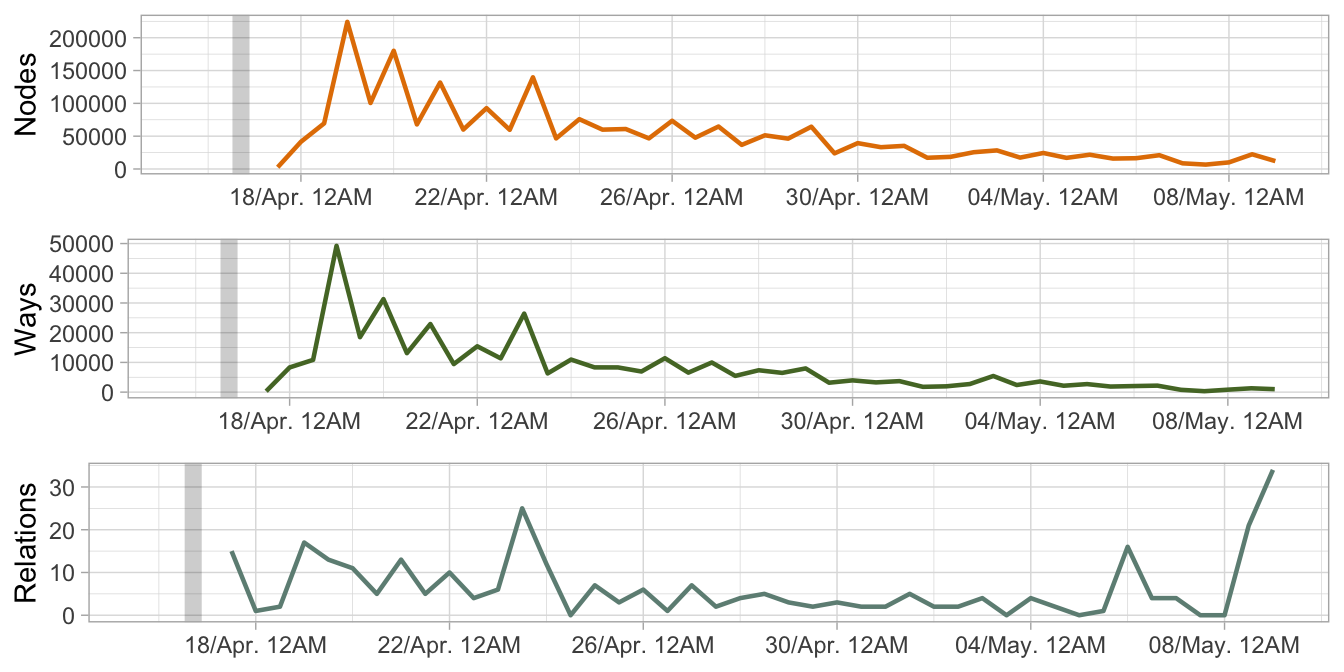
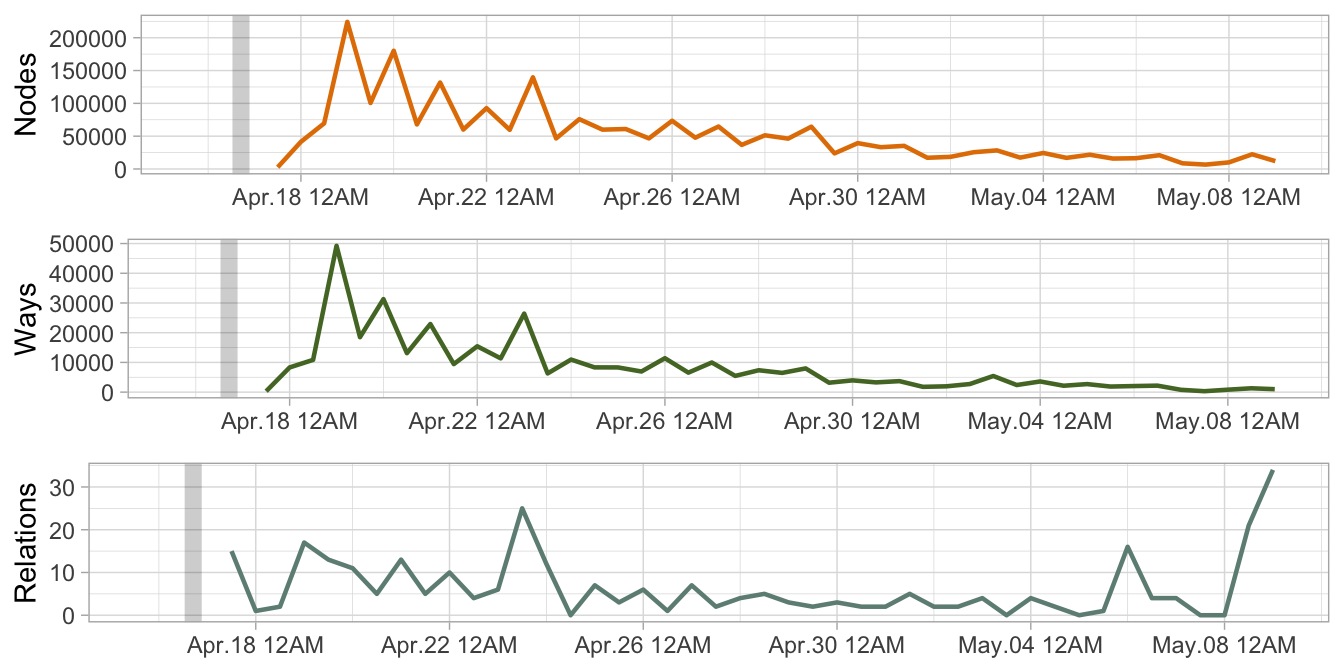
Fixes for new Pandoc

diff --git a/docs/post/2021/04/16-mapping-ecuador-contribuciones/index.html b/docs/post/2021/04/16-mapping-ecuador-contribuciones/index.html
@@ -235,22 +235,22 @@
           <div class="post-content markdown" itemprop="articleBody">
             <div class="main-content-wrap">
               
-<script src="https://ruevko.github.io/hexagonal/rmarkdown-libs/accessible-code-block/empty-anchor.js"></script>
+<script src="https://ruevko.github.io/hexagonal/rmarkdown-libs/header-attrs/header-attrs.js"></script>
 <script src="https://ruevko.github.io/hexagonal/rmarkdown-libs/kePrint/kePrint.js"></script>
 <link href="https://ruevko.github.io/hexagonal/rmarkdown-libs/lightable/lightable.css" rel="stylesheet" />
 <style type="text/css">
-code.sourceCode > span { display: inline-block; line-height: 1.25; }
+pre > code.sourceCode { white-space: pre; position: relative; }
+pre > code.sourceCode > span { display: inline-block; line-height: 1.25; }
+pre > code.sourceCode > span:empty { height: 1.2em; }
 code.sourceCode > span { color: inherit; text-decoration: inherit; }
-code.sourceCode > span:empty { height: 1.2em; }
-code.sourceCode { white-space: pre; position: relative; }
 div.sourceCode { margin: 1em 0; }
 pre.sourceCode { margin: 0; }
 @media screen {
 div.sourceCode { overflow: auto; }
 }
 @media print {
-code.sourceCode { white-space: pre-wrap; }
-code.sourceCode > span { text-indent: -5em; padding-left: 5em; }
+pre > code.sourceCode { white-space: pre-wrap; }
+pre > code.sourceCode > span { text-indent: -5em; padding-left: 5em; }
 }
 pre.numberSource code
   { counter-reset: source-line 0; }
@@ -271,9 +271,9 @@ pre.numberSource { margin-left: 3em; border-left: 1px solid #a0a0a0;  padding-le
 div.sourceCode
   { color: #1f1c1b; background-color: #ffffff; }
 @media screen {
-code.sourceCode > span > a:first-child::before { text-decoration: underline; }
+pre > code.sourceCode > span > a:first-child::before { text-decoration: underline; }
 }
-code span. { color: #1f1c1b; } /* Normal */
+code span { color: #1f1c1b; } /* Normal */
 code span.al { color: #bf0303; background-color: #f7e6e6; font-weight: bold; } /* Alert */
 code span.an { color: #ca60ca; } /* Annotation */
 code span.at { color: #0057ae; } /* Attribute */
@@ -308,11 +308,13 @@ code span.wa { color: #bf0303; } /* Warning */
 
 <div id="TOC"><span class="post-meta">Contenido</span>
 <ul>
-<li><a href="#datos-osmstats">Datos OSMstats</a><ul>
+<li><a href="#datos-osmstats">Datos OSMstats</a>
+<ul>
 <li><a href="#modelos-lineales-para-la-tasa-de-contribución">Modelos lineales para la tasa de contribución</a></li>
 <li><a href="#contribuciones-a-lo-largo-del-tiempo">Contribuciones a lo largo del tiempo</a></li>
 </ul></li>
-<li><a href="#datos-overpass">Datos Overpass</a><ul>
+<li><a href="#datos-overpass">Datos Overpass</a>
+<ul>
 <li><a href="#contribuciones-a-lo-largo-del-tiempo-1">Contribuciones a lo largo del tiempo</a></li>
 <li><a href="#contribuciones-por-usuario">Contribuciones por usuario</a></li>
 <li><a href="#contribuciones-en-el-espacio">Contribuciones en el espacio</a></li>
@@ -381,19 +383,19 @@ la historia de OpenStreetMap se remonta a 2004. Por ende, no todas las contribuc
 pueden ser cuantificadas con esta fuente de datos —en Ecuador también había datos antes
 de 2011— aunque más del 75 % de las contribuciones sí están disponibles. Ahora el primer
 paso es leer el <em>dataset</em>; utilizaremos <code>library(tidyverse)</code> a lo largo del análisis.</p>
-<div class="sourceCode" id="cb1"><pre class="sourceCode r"><code class="sourceCode r"><span id="cb1-1"><a href="#cb1-1"></a>Ecuador =<span class="st"> </span><span class="kw">read_csv</span>(<span class="st">&quot;ecuador_osmstats_2021_week_14.csv&quot;</span>) <span class="op">%&gt;%</span></span>
-<span id="cb1-2"><a href="#cb1-2"></a><span class="st">   </span><span class="kw">mutate</span>(<span class="dt">Created_elements_cum =</span> <span class="kw">cumsum</span>(Created_elements_sum),</span>
-<span id="cb1-3"><a href="#cb1-3"></a>          <span class="dt">Week_after =</span> Week <span class="op">&gt;</span><span class="st"> </span><span class="kw">as.Date</span>(<span class="st">&quot;2016-04-16&quot;</span>)) <span class="op">%&gt;%</span></span>
-<span id="cb1-4"><a href="#cb1-4"></a><span class="st">   </span><span class="kw">relocate</span>(Week, Week_after)</span></code></pre></div>
+<div class="sourceCode" id="cb1"><pre class="sourceCode r"><code class="sourceCode r"><span id="cb1-1"><a href="#cb1-1" aria-hidden="true" tabindex="-1"></a>Ecuador <span class="ot">=</span> <span class="fu">read_csv</span>(<span class="st">&quot;ecuador_osmstats_2021_week_14.csv&quot;</span>) <span class="sc">%&gt;%</span></span>
+<span id="cb1-2"><a href="#cb1-2" aria-hidden="true" tabindex="-1"></a>   <span class="fu">mutate</span>(<span class="at">Created_elements_cum =</span> <span class="fu">cumsum</span>(Created_elements_sum),</span>
+<span id="cb1-3"><a href="#cb1-3" aria-hidden="true" tabindex="-1"></a>          <span class="at">Week_after =</span> Week <span class="sc">&gt;</span> <span class="fu">as.Date</span>(<span class="st">&quot;2016-04-16&quot;</span>)) <span class="sc">%&gt;%</span></span>
+<span id="cb1-4"><a href="#cb1-4" aria-hidden="true" tabindex="-1"></a>   <span class="fu">relocate</span>(Week, Week_after)</span></code></pre></div>
 <p>En este paso también se anadió dos nuevas variables: <code>Week_after</code>, un vector
 lógico que es <code>TRUE</code> en las observaciones que ocurrieron después del terremoto; y
 <code>Created_elements_cum</code>, la suma acumulativa de <code>Created_elements_sum</code>, i.e. el
 total estimado de elementos creados (ignorando los eliminados) en el territorio
 ecuatoriano. Observemos una muestra de los datos, correspondientes al periodo
 del 4 de abril al 29 de mayo de 2016:</p>
-<div class="sourceCode" id="cb2"><pre class="sourceCode r"><code class="sourceCode r"><span id="cb2-1"><a href="#cb2-1"></a><span class="kw">filter</span>(Ecuador, Week <span class="op">&gt;</span><span class="st"> </span><span class="kw">as.Date</span>(<span class="st">&quot;2016-04-03&quot;</span>), Week <span class="op">&lt;</span><span class="st"> </span><span class="kw">as.Date</span>(<span class="st">&quot;2016-05-30&quot;</span>)) <span class="op">%&gt;%</span></span>
-<span id="cb2-2"><a href="#cb2-2"></a><span class="st">   </span><span class="kw">mutate</span>(<span class="kw">across</span>(Week, as.character, <span class="dt">format =</span> <span class="st">&quot;%d/%b.&quot;</span>)) <span class="op">%&gt;%</span><span class="st"> </span>knitr<span class="op">::</span><span class="kw">kable</span>() <span class="op">%&gt;%</span></span>
-<span id="cb2-3"><a href="#cb2-3"></a><span class="st">   </span>kableExtra<span class="op">::</span><span class="kw">scroll_box</span>(<span class="dt">width =</span> <span class="st">&quot;auto&quot;</span>, <span class="dt">extra_css =</span> <span class="st">&quot;margin-bottom:2rem;&quot;</span>)</span></code></pre></div>
+<div class="sourceCode" id="cb2"><pre class="sourceCode r"><code class="sourceCode r"><span id="cb2-1"><a href="#cb2-1" aria-hidden="true" tabindex="-1"></a><span class="fu">filter</span>(Ecuador, Week <span class="sc">&gt;</span> <span class="fu">as.Date</span>(<span class="st">&quot;2016-04-03&quot;</span>), Week <span class="sc">&lt;</span> <span class="fu">as.Date</span>(<span class="st">&quot;2016-05-30&quot;</span>)) <span class="sc">%&gt;%</span></span>
+<span id="cb2-2"><a href="#cb2-2" aria-hidden="true" tabindex="-1"></a>   <span class="fu">mutate</span>(<span class="fu">across</span>(Week, as.character, <span class="at">format =</span> <span class="st">&quot;%b.%d&quot;</span>)) <span class="sc">%&gt;%</span> knitr<span class="sc">::</span><span class="fu">kable</span>() <span class="sc">%&gt;%</span></span>
+<span id="cb2-3"><a href="#cb2-3" aria-hidden="true" tabindex="-1"></a>   kableExtra<span class="sc">::</span><span class="fu">scroll_box</span>(<span class="at">width =</span> <span class="st">&quot;auto&quot;</span>, <span class="at">extra_css =</span> <span class="st">&quot;margin-bottom:2rem;&quot;</span>)</span></code></pre></div>
 <div style="border: 1px solid #ddd; padding: 5px; margin-bottom:2rem;overflow-x: scroll; width:auto; ">
 <table>
 <thead>
@@ -421,7 +423,7 @@ Created_elements_cum
 <tbody>
 <tr>
 <td style="text-align:left;">
-04/abr..
+Apr.04
 </td>
 <td style="text-align:left;">
 FALSE
@@ -441,7 +443,7 @@ FALSE
 </tr>
 <tr>
 <td style="text-align:left;">
-11/abr..
+Apr.11
 </td>
 <td style="text-align:left;">
 FALSE
@@ -461,7 +463,7 @@ FALSE
 </tr>
 <tr>
 <td style="text-align:left;">
-18/abr..
+Apr.18
 </td>
 <td style="text-align:left;">
 TRUE
@@ -481,7 +483,7 @@ TRUE
 </tr>
 <tr>
 <td style="text-align:left;">
-25/abr..
+Apr.25
 </td>
 <td style="text-align:left;">
 TRUE
@@ -501,7 +503,7 @@ TRUE
 </tr>
 <tr>
 <td style="text-align:left;">
-02/may..
+May.02
 </td>
 <td style="text-align:left;">
 TRUE
@@ -521,7 +523,7 @@ TRUE
 </tr>
 <tr>
 <td style="text-align:left;">
-09/may..
+May.09
 </td>
 <td style="text-align:left;">
 TRUE
@@ -541,7 +543,7 @@ TRUE
 </tr>
 <tr>
 <td style="text-align:left;">
-16/may..
+May.16
 </td>
 <td style="text-align:left;">
 TRUE
@@ -561,7 +563,7 @@ TRUE
 </tr>
 <tr>
 <td style="text-align:left;">
-23/may..
+May.23
 </td>
 <td style="text-align:left;">
 TRUE
@@ -596,7 +598,7 @@ Por eso ajustamos una regresión lineal donde la suma acumulativa de elementos c
 variable dependiente, y el tiempo la independiente; la pendiente de esta regresión es la tasa
 de contribución. A continuación presento el comando y el gráfico —las observaciones azules
 son antes del terremoto, las rojas después— correspondientes al cálculo de la regresión lineal:</p>
-<div class="sourceCode" id="cb3"><pre class="sourceCode r"><code class="sourceCode r"><span id="cb3-1"><a href="#cb3-1"></a>Model_single =<span class="st"> </span><span class="kw">lm</span>(Created_elements_cum <span class="op">~</span><span class="st"> </span>Week, Ecuador)</span></code></pre></div>
+<div class="sourceCode" id="cb3"><pre class="sourceCode r"><code class="sourceCode r"><span id="cb3-1"><a href="#cb3-1" aria-hidden="true" tabindex="-1"></a>Model_single <span class="ot">=</span> <span class="fu">lm</span>(Created_elements_cum <span class="sc">~</span> Week, Ecuador)</span></code></pre></div>
 <div class="figure"><span id="fig:plot-one-model"></span>
 <img src="https://ruevko.github.io/hexagonal/post/2021/04/16-mapping-ecuador-contribuciones_files/figure-html/plot-one-model-1.png" alt="Regresión lineal de contribuciones OSM en Ecuador" width="672" />
 <p class="caption">
@@ -611,9 +613,9 @@ crearon unos 3900 elementos a diario<a href="#fn3" class="footnote-ref" id="fnre
 <p>Como siguiente paso, para evaluar si Mapping Ecuador influyó en la tasa de contribución, ajustamos
 dos regresiones: una para el periodo anterior al terremoto, y otra para el periodo posterior.
 En este paso, la variable <code>Week_after</code> es la condición que permite dividir ambos periodos.</p>
-<div class="sourceCode" id="cb4"><pre class="sourceCode r"><code class="sourceCode r"><span id="cb4-1"><a href="#cb4-1"></a>Model_before =<span class="st"> </span><span class="kw">lm</span>(Created_elements_cum <span class="op">~</span><span class="st"> </span>Week, <span class="kw">filter</span>(Ecuador, <span class="op">!</span>Week_after))</span>
-<span id="cb4-2"><a href="#cb4-2"></a></span>
-<span id="cb4-3"><a href="#cb4-3"></a>Model_after =<span class="st"> </span><span class="kw">lm</span>(Created_elements_cum <span class="op">~</span><span class="st"> </span>Week, <span class="kw">filter</span>(Ecuador, Week_after))</span></code></pre></div>
+<div class="sourceCode" id="cb4"><pre class="sourceCode r"><code class="sourceCode r"><span id="cb4-1"><a href="#cb4-1" aria-hidden="true" tabindex="-1"></a>Model_before <span class="ot">=</span> <span class="fu">lm</span>(Created_elements_cum <span class="sc">~</span> Week, <span class="fu">filter</span>(Ecuador, <span class="sc">!</span>Week_after))</span>
+<span id="cb4-2"><a href="#cb4-2" aria-hidden="true" tabindex="-1"></a></span>
+<span id="cb4-3"><a href="#cb4-3" aria-hidden="true" tabindex="-1"></a>Model_after <span class="ot">=</span> <span class="fu">lm</span>(Created_elements_cum <span class="sc">~</span> Week, <span class="fu">filter</span>(Ecuador, Week_after))</span></code></pre></div>
 <div class="figure"><span id="fig:plot-two-model"></span>
 <img src="https://ruevko.github.io/hexagonal/post/2021/04/16-mapping-ecuador-contribuciones_files/figure-html/plot-two-model-1.png" alt="Regresiones lineales de contribuciones OSM en Ecuador, antes y despues del terremoto" width="672" />
 <p class="caption">
@@ -643,9 +645,9 @@ a ajustar una regresión para todo el <em>dataset</em>, como la del gráfico <a 
 añadiendo esta vez dos nuevas variables independientes: una condición (antes o después del
 terremoto), y una interacción<a href="#fn4" class="footnote-ref" id="fnref4"><sup>4</sup></a> de dicha condición
 con el tiempo. En lenguaje R, la interacción entre dos variables se escribe multiplicándolas:</p>
-<div class="sourceCode" id="cb5"><pre class="sourceCode r"><code class="sourceCode r"><span id="cb5-1"><a href="#cb5-1"></a><span class="kw">lm</span>(Created_elements_cum <span class="op">~</span><span class="st"> </span>Week <span class="op">+</span><span class="st"> </span>Week <span class="op">*</span><span class="st"> </span>Week_after <span class="op">+</span><span class="st"> </span>Week_after, Ecuador) <span class="op">%&gt;%</span></span>
-<span id="cb5-2"><a href="#cb5-2"></a><span class="st">   </span>broom<span class="op">::</span><span class="kw">tidy</span>() <span class="op">%&gt;%</span><span class="st"> </span>knitr<span class="op">::</span><span class="kw">kable</span>(<span class="dt">format.args =</span> <span class="kw">list</span>(<span class="dt">scientific =</span> <span class="ot">TRUE</span>)) <span class="op">%&gt;%</span></span>
-<span id="cb5-3"><a href="#cb5-3"></a><span class="st">   </span>kableExtra<span class="op">::</span><span class="kw">scroll_box</span>(<span class="dt">width =</span> <span class="st">&quot;auto&quot;</span>, <span class="dt">extra_css =</span> <span class="st">&quot;margin-bottom:2rem;&quot;</span>)</span></code></pre></div>
+<div class="sourceCode" id="cb5"><pre class="sourceCode r"><code class="sourceCode r"><span id="cb5-1"><a href="#cb5-1" aria-hidden="true" tabindex="-1"></a><span class="fu">lm</span>(Created_elements_cum <span class="sc">~</span> Week <span class="sc">+</span> Week <span class="sc">*</span> Week_after <span class="sc">+</span> Week_after, Ecuador) <span class="sc">%&gt;%</span></span>
+<span id="cb5-2"><a href="#cb5-2" aria-hidden="true" tabindex="-1"></a>   broom<span class="sc">::</span><span class="fu">tidy</span>() <span class="sc">%&gt;%</span> knitr<span class="sc">::</span><span class="fu">kable</span>(<span class="at">format.args =</span> <span class="fu">list</span>(<span class="at">scientific =</span> <span class="cn">TRUE</span>)) <span class="sc">%&gt;%</span></span>
+<span id="cb5-3"><a href="#cb5-3" aria-hidden="true" tabindex="-1"></a>   kableExtra<span class="sc">::</span><span class="fu">scroll_box</span>(<span class="at">width =</span> <span class="st">&quot;auto&quot;</span>, <span class="at">extra_css =</span> <span class="st">&quot;margin-bottom:2rem;&quot;</span>)</span></code></pre></div>
 <div style="border: 1px solid #ddd; padding: 5px; margin-bottom:2rem;overflow-x: scroll; width:auto; ">
 <table>
 <thead>
@@ -758,7 +760,7 @@ con sus vecinas. Existen varias maneras de suavizar estas irregularidades; en es
 calculamos la media móvil —usando una ventana de nueve semanas— de cada variable
 con <code>zoo::rollmean()</code> y la añadimos al gráfico (las líneas transparentes representan
 los datos; las opacas, las medias móviles).</p>
-<div class="sourceCode" id="cb6"><pre class="sourceCode r"><code class="sourceCode r"><span id="cb6-1"><a href="#cb6-1"></a>Ecuador_rollmean =<span class="st"> </span><span class="kw">mutate</span>(Ecuador, <span class="kw">across</span>(<span class="dv">3</span><span class="op">:</span><span class="dv">5</span>, zoo<span class="op">::</span>rollmean, <span class="dv">9</span>, <span class="ot">NA</span>))</span></code></pre></div>
+<div class="sourceCode" id="cb6"><pre class="sourceCode r"><code class="sourceCode r"><span id="cb6-1"><a href="#cb6-1" aria-hidden="true" tabindex="-1"></a>Ecuador_rollmean <span class="ot">=</span> <span class="fu">mutate</span>(Ecuador, <span class="fu">across</span>(<span class="dv">3</span><span class="sc">:</span><span class="dv">5</span>, zoo<span class="sc">::</span>rollmean, <span class="dv">9</span>, <span class="cn">NA</span>))</span></code></pre></div>
 <div class="figure"><span id="fig:plot-weekly"></span>
 <img src="https://ruevko.github.io/hexagonal/post/2021/04/16-mapping-ecuador-contribuciones_files/figure-html/plot-weekly-1.png" alt="Elementos creados y modificados, y contribuidores activos semanalmente en Ecuador" width="672" />
 <p class="caption">
@@ -778,8 +780,8 @@ que investigue ese hecho en el futuro.</p>
 prescindir de las irregularidades que las líneas causan. Podemos hacer un resumen
 anual de las mismas variables utilizando <em>boxplots</em>, pero presentaremos únicamente
 los años con observaciones completas, i.e. de 2012 a 2020.</p>
-<div class="sourceCode" id="cb7"><pre class="sourceCode r"><code class="sourceCode r"><span id="cb7-1"><a href="#cb7-1"></a>Ecuador =<span class="st"> </span><span class="kw">mutate</span>(Ecuador, <span class="dt">Week_after =</span> Week <span class="op">&gt;</span><span class="st"> </span><span class="kw">as.Date</span>(<span class="st">&quot;2016-01-01&quot;</span>)) <span class="op">%&gt;%</span></span>
-<span id="cb7-2"><a href="#cb7-2"></a><span class="st">   </span><span class="kw">filter</span>( <span class="op">!</span><span class="st"> </span><span class="kw">as.character</span>(Week, <span class="st">&quot;%g&quot;</span>) <span class="op">%in%</span><span class="st"> </span><span class="kw">c</span>(<span class="st">&quot;11&quot;</span>, <span class="st">&quot;21&quot;</span>))</span></code></pre></div>
+<div class="sourceCode" id="cb7"><pre class="sourceCode r"><code class="sourceCode r"><span id="cb7-1"><a href="#cb7-1" aria-hidden="true" tabindex="-1"></a>Ecuador <span class="ot">=</span> <span class="fu">mutate</span>(Ecuador, <span class="at">Week_after =</span> Week <span class="sc">&gt;</span> <span class="fu">as.Date</span>(<span class="st">&quot;2016-01-01&quot;</span>)) <span class="sc">%&gt;%</span></span>
+<span id="cb7-2"><a href="#cb7-2" aria-hidden="true" tabindex="-1"></a>   <span class="fu">filter</span>( <span class="sc">!</span> <span class="fu">as.character</span>(Week, <span class="st">&quot;%g&quot;</span>) <span class="sc">%in%</span> <span class="fu">c</span>(<span class="st">&quot;11&quot;</span>, <span class="st">&quot;21&quot;</span>))</span></code></pre></div>
 <div class="figure"><span id="fig:plot-yearly"></span>
 <img src="https://ruevko.github.io/hexagonal/post/2021/04/16-mapping-ecuador-contribuciones_files/figure-html/plot-yearly-1.png" alt="Elementos creados y modificados, y contribuidores activos en Ecuador, agregados anualmente" width="672" />
 <p class="caption">
@@ -814,10 +816,10 @@ out meta;</code></pre>
 puede insertar esta <em>query</em> y enviarla a la API, la cual devuelve<a href="#fn6" class="footnote-ref" id="fnref6"><sup>6</sup></a> un archivo <code>interpreter</code> con valores separados por tabulaciones. Cuando
 realicé este proceso, el archivo que recibí tuvo un peso de 167.54 MB y por esta razón
 no lo he compartido; el código que utilicé para leerlo es:</p>
-<div class="sourceCode" id="cb9"><pre class="sourceCode r"><code class="sourceCode r"><span id="cb9-1"><a href="#cb9-1"></a>Overpass =<span class="st"> </span><span class="kw">read_tsv</span>(<span class="st">&quot;interpreter&quot;</span>, <span class="dt">col_types =</span> <span class="kw">c</span>(<span class="st">&quot;_cTnnn&quot;</span>)) <span class="op">%&gt;%</span></span>
-<span id="cb9-2"><a href="#cb9-2"></a><span class="st">   </span><span class="kw">rename_with</span>(str_remove, <span class="dt">pattern =</span> <span class="st">&quot;@o?&quot;</span>) <span class="op">%&gt;%</span></span>
-<span id="cb9-3"><a href="#cb9-3"></a><span class="st">   </span><span class="kw">filter</span>(timestamp <span class="op">&gt;</span><span class="st"> </span><span class="kw">as.Date</span>(<span class="st">&quot;2016-04-17&quot;</span>)) <span class="op">%&gt;%</span><span class="st"> </span><span class="kw">arrange</span>(timestamp) <span class="op">%&gt;%</span></span>
-<span id="cb9-4"><a href="#cb9-4"></a><span class="st">   </span><span class="kw">mutate</span>(<span class="dt">type =</span> <span class="kw">case_when</span>(type<span class="op">==</span><span class="dv">1</span> <span class="op">~</span><span class="st"> &quot;Nodes&quot;</span>, type<span class="op">==</span><span class="dv">2</span> <span class="op">~</span><span class="st"> &quot;Ways&quot;</span>, type<span class="op">==</span><span class="dv">3</span> <span class="op">~</span><span class="st"> &quot;Relations&quot;</span>))</span></code></pre></div>
+<div class="sourceCode" id="cb9"><pre class="sourceCode r"><code class="sourceCode r"><span id="cb9-1"><a href="#cb9-1" aria-hidden="true" tabindex="-1"></a>Overpass <span class="ot">=</span> <span class="fu">read_tsv</span>(<span class="st">&quot;interpreter&quot;</span>, <span class="at">col_types =</span> <span class="fu">c</span>(<span class="st">&quot;_cTnnn&quot;</span>)) <span class="sc">%&gt;%</span></span>
+<span id="cb9-2"><a href="#cb9-2" aria-hidden="true" tabindex="-1"></a>   <span class="fu">rename_with</span>(str_remove, <span class="at">pattern =</span> <span class="st">&quot;@o?&quot;</span>) <span class="sc">%&gt;%</span></span>
+<span id="cb9-3"><a href="#cb9-3" aria-hidden="true" tabindex="-1"></a>   <span class="fu">filter</span>(timestamp <span class="sc">&gt;</span> <span class="fu">as.Date</span>(<span class="st">&quot;2016-04-17&quot;</span>)) <span class="sc">%&gt;%</span> <span class="fu">arrange</span>(timestamp) <span class="sc">%&gt;%</span></span>
+<span id="cb9-4"><a href="#cb9-4" aria-hidden="true" tabindex="-1"></a>   <span class="fu">mutate</span>(<span class="at">type =</span> <span class="fu">case_when</span>(type<span class="sc">==</span><span class="dv">1</span> <span class="sc">~</span> <span class="st">&quot;Nodes&quot;</span>, type<span class="sc">==</span><span class="dv">2</span> <span class="sc">~</span> <span class="st">&quot;Ways&quot;</span>, type<span class="sc">==</span><span class="dv">3</span> <span class="sc">~</span> <span class="st">&quot;Relations&quot;</span>))</span></code></pre></div>
 <p>¿Por qué el archivo <code>interpreter</code> es tan pesado? Resulta que contiene 2.751 millones
 de elementos creados en el periodo de tres semanas que culminó el 8 de mayo, una cifra
 congruente con los datos en la primera tabla de este artículo. De esos elementos, 653
@@ -833,11 +835,11 @@ los datos según el aspecto que está siendo analizado, y escribir un nuevo arch
 más liviano) con los resultados. Así, para analizar los elementos creados a lo largo del
 tiempo, se creó intervalos de doce horas con ayuda de <code>lubridate::ceiling_date()</code> y se
 contó los elementos por tipo en cada interavalo:</p>
-<div class="sourceCode" id="cb10"><pre class="sourceCode r"><code class="sourceCode r"><span id="cb10-1"><a href="#cb10-1"></a><span class="kw">filter</span>(Overpass, timestamp <span class="op">&lt;</span><span class="st"> </span><span class="kw">as.Date</span>(<span class="st">&quot;2016-05-09&quot;</span>)) <span class="op">%&gt;%</span></span>
-<span id="cb10-2"><a href="#cb10-2"></a><span class="st">   </span><span class="kw">mutate</span>(<span class="kw">across</span>(timestamp, lubridate<span class="op">::</span>ceiling_date, <span class="st">&quot;12 hours&quot;</span>)) <span class="op">%&gt;%</span></span>
-<span id="cb10-3"><a href="#cb10-3"></a><span class="st">   </span><span class="kw">count</span>(timestamp, type, <span class="dt">name =</span> <span class="st">&quot;value&quot;</span>) <span class="op">%&gt;%</span></span>
-<span id="cb10-4"><a href="#cb10-4"></a><span class="st">   </span><span class="kw">pivot_wider</span>(timestamp, type, <span class="dt">values_fill =</span> <span class="dv">0</span>) <span class="op">%&gt;%</span></span>
-<span id="cb10-5"><a href="#cb10-5"></a><span class="st">   </span><span class="kw">write_csv</span>(<span class="st">&quot;ecuador_overpass_2016_by_time.csv&quot;</span>)</span></code></pre></div>
+<div class="sourceCode" id="cb10"><pre class="sourceCode r"><code class="sourceCode r"><span id="cb10-1"><a href="#cb10-1" aria-hidden="true" tabindex="-1"></a><span class="fu">filter</span>(Overpass, timestamp <span class="sc">&lt;</span> <span class="fu">as.Date</span>(<span class="st">&quot;2016-05-09&quot;</span>)) <span class="sc">%&gt;%</span></span>
+<span id="cb10-2"><a href="#cb10-2" aria-hidden="true" tabindex="-1"></a>   <span class="fu">mutate</span>(<span class="fu">across</span>(timestamp, lubridate<span class="sc">::</span>ceiling_date, <span class="st">&quot;12 hours&quot;</span>)) <span class="sc">%&gt;%</span></span>
+<span id="cb10-3"><a href="#cb10-3" aria-hidden="true" tabindex="-1"></a>   <span class="fu">count</span>(timestamp, type, <span class="at">name =</span> <span class="st">&quot;value&quot;</span>) <span class="sc">%&gt;%</span></span>
+<span id="cb10-4"><a href="#cb10-4" aria-hidden="true" tabindex="-1"></a>   <span class="fu">pivot_wider</span>(timestamp, type, <span class="at">values_fill =</span> <span class="dv">0</span>) <span class="sc">%&gt;%</span></span>
+<span id="cb10-5"><a href="#cb10-5" aria-hidden="true" tabindex="-1"></a>   <span class="fu">write_csv</span>(<span class="st">&quot;ecuador_overpass_2016_by_time.csv&quot;</span>)</span></code></pre></div>
 <p>También se filtró los datos hasta antes del 9 de mayo. Parece un paso redundante (precisamente
 se solicitó datos hasta esa fecha), pero resulta que la variable <code>timestamp</code> guarda la fecha
 y hora de la última vez que el elemento fue modificado. Entonces, aquellos elementos creados
@@ -851,7 +853,7 @@ solo el 43.64 % de <em>relations</em> no han recibido modificaciones. Tiene sent
 son los elementos OSM más complejos y menos estáticos.</p>
 <p>El archivo <a href="https://github.com/ruevko/hexagonal/blob/master/content/post/2021/04/ecuador_overpass_2016_by_time.csv"><code>ecuador_overpass_2016_by_time.csv</code></a>
 se puede leer fácilmente con <code>readr::read_csv()</code>; a continuación se encuentra el gráfico con sus observaciones.</p>
-<div class="sourceCode" id="cb11"><pre class="sourceCode r"><code class="sourceCode r"><span id="cb11-1"><a href="#cb11-1"></a>Overpass_by_time =<span class="st"> </span><span class="kw">read_csv</span>(<span class="st">&quot;ecuador_overpass_2016_by_time.csv&quot;</span>)</span></code></pre></div>
+<div class="sourceCode" id="cb11"><pre class="sourceCode r"><code class="sourceCode r"><span id="cb11-1"><a href="#cb11-1" aria-hidden="true" tabindex="-1"></a>Overpass_by_time <span class="ot">=</span> <span class="fu">read_csv</span>(<span class="st">&quot;ecuador_overpass_2016_by_time.csv&quot;</span>)</span></code></pre></div>
 <div class="figure"><span id="fig:plot-time"></span>
 <img src="https://ruevko.github.io/hexagonal/post/2021/04/16-mapping-ecuador-contribuciones_files/figure-html/plot-time-1.png" alt="Conteo de elementos contribuidos en Mapping Ecuador, en intervalos de doce horas" width="672" />
 <p class="caption">
@@ -878,10 +880,10 @@ después de que el mismo concluyó. No obstante, no es que este sea el porcentaj
 sigue activo, porque no consideramos toda la actividad en el país.</p>
 <p>En el siguiente paso se cuenta los elementos, por tipo y por usuario, y se escribe los resultados en el archivo
 <a href="https://github.com/ruevko/hexagonal/blob/master/content/post/2021/04/ecuador_overpass_2016_by_user.csv"><code>ecuador_overpass_2016_by_user.csv</code></a>:</p>
-<div class="sourceCode" id="cb12"><pre class="sourceCode r"><code class="sourceCode r"><span id="cb12-1"><a href="#cb12-1"></a><span class="kw">filter</span>(Overpass, timestamp <span class="op">&lt;</span><span class="st"> </span><span class="kw">as.Date</span>(<span class="st">&quot;2016-05-09&quot;</span>)) <span class="op">%&gt;%</span></span>
-<span id="cb12-2"><a href="#cb12-2"></a><span class="st">   </span><span class="kw">count</span>(user, type, <span class="dt">name =</span> <span class="st">&quot;value&quot;</span>, <span class="dt">sort =</span> <span class="ot">TRUE</span>) <span class="op">%&gt;%</span></span>
-<span id="cb12-3"><a href="#cb12-3"></a><span class="st">   </span><span class="kw">pivot_wider</span>(user, type, <span class="dt">values_fill =</span> <span class="dv">0</span>) <span class="op">%&gt;%</span></span>
-<span id="cb12-4"><a href="#cb12-4"></a><span class="st">   </span><span class="kw">write_csv</span>(<span class="st">&quot;ecuador_overpass_2016_by_user.csv&quot;</span>)</span></code></pre></div>
+<div class="sourceCode" id="cb12"><pre class="sourceCode r"><code class="sourceCode r"><span id="cb12-1"><a href="#cb12-1" aria-hidden="true" tabindex="-1"></a><span class="fu">filter</span>(Overpass, timestamp <span class="sc">&lt;</span> <span class="fu">as.Date</span>(<span class="st">&quot;2016-05-09&quot;</span>)) <span class="sc">%&gt;%</span></span>
+<span id="cb12-2"><a href="#cb12-2" aria-hidden="true" tabindex="-1"></a>   <span class="fu">count</span>(user, type, <span class="at">name =</span> <span class="st">&quot;value&quot;</span>, <span class="at">sort =</span> <span class="cn">TRUE</span>) <span class="sc">%&gt;%</span></span>
+<span id="cb12-3"><a href="#cb12-3" aria-hidden="true" tabindex="-1"></a>   <span class="fu">pivot_wider</span>(user, type, <span class="at">values_fill =</span> <span class="dv">0</span>) <span class="sc">%&gt;%</span></span>
+<span id="cb12-4"><a href="#cb12-4" aria-hidden="true" tabindex="-1"></a>   <span class="fu">write_csv</span>(<span class="st">&quot;ecuador_overpass_2016_by_user.csv&quot;</span>)</span></code></pre></div>
 <p>Manipulando estas observaciones es posible descubrir que, del total de 2762 usuarios,
 solamente 47 contribuyeron diez mil elementos o más cada uno; son pocos, pero sumando
 sus aportes alcanzan la cifra de 1.120 millones, lo que es el 42.76 % de todo Mapping
@@ -896,10 +898,10 @@ con <em>waffleplots</em>: una clase de gráficos que presentan el conteo de una 
 miles de <em>nodes</em> y <em>ways</em> creados— de una manera intuitiva. Utilicé el paquete <code>waffle</code> con la
 precaución de instalarlo vía <code>remotes::install_github("hrbrmstr/waffle")</code> pues es en la última
 versión donde se encuentra<code>geom_waffle()</code>, la geometría que permite graficar <em>waffleplots</em>.</p>
-<div class="sourceCode" id="cb13"><pre class="sourceCode r"><code class="sourceCode r"><span id="cb13-1"><a href="#cb13-1"></a>Overpass_by_user =<span class="st"> </span><span class="kw">read_csv</span>(<span class="st">&quot;ecuador_overpass_2016_by_user.csv&quot;</span>) <span class="op">%&gt;%</span></span>
-<span id="cb13-2"><a href="#cb13-2"></a><span class="st">   </span><span class="kw">filter</span>(Nodes <span class="op">+</span><span class="st"> </span>Ways <span class="op">+</span><span class="st"> </span>Relations <span class="op">&gt;</span><span class="st"> </span><span class="fl">33e3</span>) <span class="op">%&gt;%</span></span>
-<span id="cb13-3"><a href="#cb13-3"></a><span class="st">   </span><span class="kw">mutate</span>(<span class="kw">across</span>(Ways<span class="op">:</span>Nodes, <span class="op">~</span><span class="st"> </span><span class="kw">round</span>(. <span class="op">/</span><span class="st"> </span><span class="fl">1e3</span>) )) <span class="op">%&gt;%</span></span>
-<span id="cb13-4"><a href="#cb13-4"></a><span class="st">   </span><span class="kw">pivot_longer</span>(Ways<span class="op">:</span>Nodes)</span></code></pre></div>
+<div class="sourceCode" id="cb13"><pre class="sourceCode r"><code class="sourceCode r"><span id="cb13-1"><a href="#cb13-1" aria-hidden="true" tabindex="-1"></a>Overpass_by_user <span class="ot">=</span> <span class="fu">read_csv</span>(<span class="st">&quot;ecuador_overpass_2016_by_user.csv&quot;</span>) <span class="sc">%&gt;%</span></span>
+<span id="cb13-2"><a href="#cb13-2" aria-hidden="true" tabindex="-1"></a>   <span class="fu">filter</span>(Nodes <span class="sc">+</span> Ways <span class="sc">+</span> Relations <span class="sc">&gt;</span> <span class="fl">33e3</span>) <span class="sc">%&gt;%</span></span>
+<span id="cb13-3"><a href="#cb13-3" aria-hidden="true" tabindex="-1"></a>   <span class="fu">mutate</span>(<span class="fu">across</span>(Ways<span class="sc">:</span>Nodes, <span class="sc">~</span> <span class="fu">round</span>(. <span class="sc">/</span> <span class="fl">1e3</span>) )) <span class="sc">%&gt;%</span></span>
+<span id="cb13-4"><a href="#cb13-4" aria-hidden="true" tabindex="-1"></a>   <span class="fu">pivot_longer</span>(Ways<span class="sc">:</span>Nodes)</span></code></pre></div>
 <div class="figure"><span id="fig:plot-user"></span>
 <img src="https://ruevko.github.io/hexagonal/post/2021/04/16-mapping-ecuador-contribuciones_files/figure-html/plot-user-1.png" alt="*Waffleplots* de elementos contribuidos por los doce usuarios mas activos en Mapping Ecuador" width="672" />
 <p class="caption">
@@ -917,10 +919,10 @@ que no poseen una sola coordenada; más bien poseen un <em>bounding box</em> que
 utilizando funcionalidad avanzada del Overpass Query Language, pero esto no fue solicitado.
 De cualquier forma, los <em>nodes</em> son el 85.97 % de los elementos, así que podremos graficar
 la distribución espacial sin problemas.</p>
-<div class="sourceCode" id="cb14"><pre class="sourceCode r"><code class="sourceCode r"><span id="cb14-1"><a href="#cb14-1"></a><span class="kw">filter</span>(Overpass, type <span class="op">==</span><span class="st"> &quot;Nodes&quot;</span>) <span class="op">%&gt;%</span></span>
-<span id="cb14-2"><a href="#cb14-2"></a><span class="st">   </span><span class="kw">mutate</span>(<span class="kw">across</span>(lat<span class="op">:</span>lon, round, <span class="dt">digits =</span> <span class="dv">1</span>)) <span class="op">%&gt;%</span></span>
-<span id="cb14-3"><a href="#cb14-3"></a><span class="st">   </span><span class="kw">count</span>(lat, lon, <span class="dt">name =</span> <span class="st">&quot;Nodes&quot;</span>) <span class="op">%&gt;%</span></span>
-<span id="cb14-4"><a href="#cb14-4"></a><span class="st">   </span><span class="kw">write_csv</span>(<span class="st">&quot;ecuador_overpass_2016_by_lat_lon.csv&quot;</span>)</span></code></pre></div>
+<div class="sourceCode" id="cb14"><pre class="sourceCode r"><code class="sourceCode r"><span id="cb14-1"><a href="#cb14-1" aria-hidden="true" tabindex="-1"></a><span class="fu">filter</span>(Overpass, type <span class="sc">==</span> <span class="st">&quot;Nodes&quot;</span>) <span class="sc">%&gt;%</span></span>
+<span id="cb14-2"><a href="#cb14-2" aria-hidden="true" tabindex="-1"></a>   <span class="fu">mutate</span>(<span class="fu">across</span>(lat<span class="sc">:</span>lon, round, <span class="at">digits =</span> <span class="dv">1</span>)) <span class="sc">%&gt;%</span></span>
+<span id="cb14-3"><a href="#cb14-3" aria-hidden="true" tabindex="-1"></a>   <span class="fu">count</span>(lat, lon, <span class="at">name =</span> <span class="st">&quot;Nodes&quot;</span>) <span class="sc">%&gt;%</span></span>
+<span id="cb14-4"><a href="#cb14-4" aria-hidden="true" tabindex="-1"></a>   <span class="fu">write_csv</span>(<span class="st">&quot;ecuador_overpass_2016_by_lat_lon.csv&quot;</span>)</span></code></pre></div>
 <p>En <a href="https://github.com/ruevko/hexagonal/blob/master/content/post/2021/04/ecuador_overpass_2016_by_lat_lon.csv"><code>ecuador_overpass_2016_by_lat_lon.csv</code></a>
 tenemos el conteo de nodos por celda de 0.1º de latitud y 0.1º de longitud. Estos datos
 pueden transformarse en un objeto espacial usando <code>sf::st_as_sf()</code> con el código
@@ -928,9 +930,9 @@ EPSG 4326 (i.e. coordenadas sin proyectar en el dátum WGS 84). Así es como ge
 este <em>heatmap</em> (mapa de calor) de <em>nodes</em> contribuidos en Mapping Ecuador; podemos
 observar el resultado de este enorme proyecto en las celdas con más de diez
 mil <em>nodes</em>, extendiéndose desde Manta hasta Esmeraldas.</p>
-<div class="sourceCode" id="cb15"><pre class="sourceCode r"><code class="sourceCode r"><span id="cb15-1"><a href="#cb15-1"></a>Overpass_by_lat_lon =<span class="st"> </span><span class="kw">read_csv</span>(<span class="st">&quot;ecuador_overpass_2016_by_lat_lon.csv&quot;</span>) <span class="op">%&gt;%</span></span>
-<span id="cb15-2"><a href="#cb15-2"></a><span class="st">   </span><span class="kw">mutate</span>(<span class="dt">Nodes =</span> <span class="kw">cut</span>(Nodes, <span class="kw">c</span>(<span class="dv">1</span>, <span class="dv">100</span>, <span class="fl">1e3</span>, <span class="fl">1e4</span>, <span class="fl">24e4</span>), <span class="dt">include.lowest =</span> <span class="ot">TRUE</span>)) <span class="op">%&gt;%</span></span>
-<span id="cb15-3"><a href="#cb15-3"></a><span class="st">   </span><span class="kw">filter</span>(lon <span class="op">&gt;=</span><span class="st"> </span><span class="dv">-81</span>) <span class="op">%&gt;%</span><span class="st"> </span>sf<span class="op">::</span><span class="kw">st_as_sf</span>(<span class="dt">coords =</span> <span class="kw">c</span>(<span class="st">&quot;lon&quot;</span>, <span class="st">&quot;lat&quot;</span>), <span class="dt">crs =</span> <span class="st">&quot;EPSG:4326&quot;</span>)</span></code></pre></div>
+<div class="sourceCode" id="cb15"><pre class="sourceCode r"><code class="sourceCode r"><span id="cb15-1"><a href="#cb15-1" aria-hidden="true" tabindex="-1"></a>Overpass_by_lat_lon <span class="ot">=</span> <span class="fu">read_csv</span>(<span class="st">&quot;ecuador_overpass_2016_by_lat_lon.csv&quot;</span>) <span class="sc">%&gt;%</span></span>
+<span id="cb15-2"><a href="#cb15-2" aria-hidden="true" tabindex="-1"></a>   <span class="fu">mutate</span>(<span class="at">Nodes =</span> <span class="fu">cut</span>(Nodes, <span class="fu">c</span>(<span class="dv">1</span>, <span class="dv">100</span>, <span class="fl">1e3</span>, <span class="fl">1e4</span>, <span class="fl">24e4</span>), <span class="at">include.lowest =</span> <span class="cn">TRUE</span>)) <span class="sc">%&gt;%</span></span>
+<span id="cb15-3"><a href="#cb15-3" aria-hidden="true" tabindex="-1"></a>   <span class="fu">filter</span>(lon <span class="sc">&gt;=</span> <span class="sc">-</span><span class="dv">81</span>) <span class="sc">%&gt;%</span> sf<span class="sc">::</span><span class="fu">st_as_sf</span>(<span class="at">coords =</span> <span class="fu">c</span>(<span class="st">&quot;lon&quot;</span>, <span class="st">&quot;lat&quot;</span>), <span class="at">crs =</span> <span class="st">&quot;EPSG:4326&quot;</span>)</span></code></pre></div>
 <div class="figure"><span id="fig:plot-lat-lon"></span>
 <img src="https://ruevko.github.io/hexagonal/post/2021/04/16-mapping-ecuador-contribuciones_files/figure-html/plot-lat-lon-1.png" alt="*Heatmap* de nodos contribuidos durante Mapping Ecuador" width="480" />
 <p class="caption">
@@ -941,7 +943,7 @@ Figure 7: <em>Heatmap</em> de nodos contribuidos durante Mapping Ecuador
 </div>
 <div id="comentarios" class="section level1">
 <h1>Comentarios</h1>
-<p><span class="citation">Goodchild (<a href="#ref-good07" role="doc-biblioref">2007</a>)</span>, al acuñar el término Volunteered Geographic Information (VGI) para referirse a
+<p><span class="citation"><a href="#ref-good07" role="doc-biblioref">Goodchild</a> (<a href="#ref-good07" role="doc-biblioref">2007</a>)</span>, al acuñar el término Volunteered Geographic Information (VGI) para referirse a
 proyectos como OpenStreetMap, identificó que la gestión de emergencias sería en el futuro
 uno de los escenarios en donde las ventajas de la VGI resultarían más beneficiosas. El
 terremoto 16A y otros desastres atendidos por el HOT dan testimonio de esto. Según Goodchild,
@@ -953,7 +955,7 @@ LLACTALAB registra eventos de mapeo en España y Estados Unidos.</p>
 <p>Aunque la información extraíble de una imagen satelital es limitada, esta clase de contribuciones
 no deben ser desalentadas, especialmente en una situación de emergencia. Sin embargo, es
 verdad que la información levantada localmente difiere de la remota no solo en calidad, sino
-en los objetos que son creados. <span class="citation">Quinn (<a href="#ref-quin16" role="doc-biblioref">2016</a>)</span> observó que varios lugares en Sudamérica —uno de
+en los objetos que son creados. <span class="citation"><a href="#ref-quin16" role="doc-biblioref">Quinn</a> (<a href="#ref-quin16" role="doc-biblioref">2016</a>)</span> observó que varios lugares en Sudamérica —uno de
 los continentes con menos usuarios OSM— han sido mapeados remotamente, pero en los lugares
 donde la contribución es local abundan los objetos relacionados con la vida cotidiana, como
 escuelas, hospitales y tiendas. Estos objetos hacen que el mapa sea más valioso para sus
@@ -962,18 +964,18 @@ no analicé la cantidad de contribución local.</p>
 <p>Mi propósito fue contabilizar y graficar varios aspectos de Mapping Ecuador, no
 identificar el origen de las contribuciones. Eso sería virtualmente imposible, pues muy
 pocos usuarios —especialmente entre aquellos que no son europeos— han creado un perfil
-con información personal <span class="citation">(Quinn <a href="#ref-quin16" role="doc-biblioref">2016</a>)</span>. OpenStreetMap es un proyecto que se beneficia enormemente
+con información personal <span class="citation">(<a href="#ref-quin16" role="doc-biblioref">Quinn 2016</a>)</span>. OpenStreetMap es un proyecto que se beneficia enormemente
 del altruismo; no es de extrañar que abunde el anonimato. Por esta razón afirmé que es irrelevante
 tratar de averiguar quiénes siguen activos y quiénes no: porque estas personas actuaron con
 solidaridad, porque más grande es la obra que los nombres. Como conclusión, ¿afirmaremos que
 Mapping Ecuador aumentó la actividad en el país? Para ser que sí, pero lo importante es que
 fue una iniciativa valiosa y oportuna.</p>
-<span class="post-meta">Referencias</span><div id="refs" class="references">
-<div id="ref-good07">
-<p>Goodchild, Michael. 2007. “Citizens as Sensors: The World of Volunteered Geography.” <em>GeoJournal</em> 69 (4): 211–21. <a href="https://doi.org/10.1007/s10708-007-9111-y">https://doi.org/10.1007/s10708-007-9111-y</a>.</p>
+<span class="post-meta">Referencias</span><div id="refs" class="references csl-bib-body hanging-indent">
+<div id="ref-good07" class="csl-entry">
+Goodchild, Michael. 2007. <span>‘Citizens as Sensors: The World of Volunteered Geography.’</span> <em>GeoJournal</em> 69 (4): 211–21. <a href="https://doi.org/10.1007/s10708-007-9111-y">https://doi.org/10.1007/s10708-007-9111-y</a>.
 </div>
-<div id="ref-quin16">
-<p>Quinn, Sterling. 2016. “A Geolinguistic Approach for Comprehending Local Influence in Openstreetmap.” <em>Cartographica: The International Journal for Geographic Information and Geovisualization</em> 51 (2): 67–83. <a href="https://doi.org/10.3138/cart.51.2.3301">https://doi.org/10.3138/cart.51.2.3301</a>.</p>
+<div id="ref-quin16" class="csl-entry">
+Quinn, Sterling. 2016. <span>‘A Geolinguistic Approach for Comprehending Local Influence in OpenStreetMap.’</span> <em>Cartographica: The International Journal for Geographic Information and Geovisualization</em> 51 (2): 67–83. <a href="https://doi.org/10.3138/cart.51.2.3301">https://doi.org/10.3138/cart.51.2.3301</a>.
 </div>
 </div>
 </div>

diff --git a/docs/rmarkdown-libs/header-attrs/header-attrs.js b/docs/rmarkdown-libs/header-attrs/header-attrs.js
@@ -1,0 +1,12 @@
+// Pandoc 2.9 adds attributes on both header and div. We remove the former (to
+// be compatible with the behavior of Pandoc < 2.8).
+document.addEventListener('DOMContentLoaded', function(e) {
+  var hs = document.querySelectorAll("div.section[class*='level'] > :first-child");
+  var i, h, a;
+  for (i = 0; i < hs.length; i++) {
+    h = hs[i];
+    if (!/^h[1-6]$/i.test(h.tagName)) continue;  // it should be a header h1-h6
+    a = h.attributes;
+    while (a.length > 0) h.removeAttribute(a[0].name);
+  }
+});
